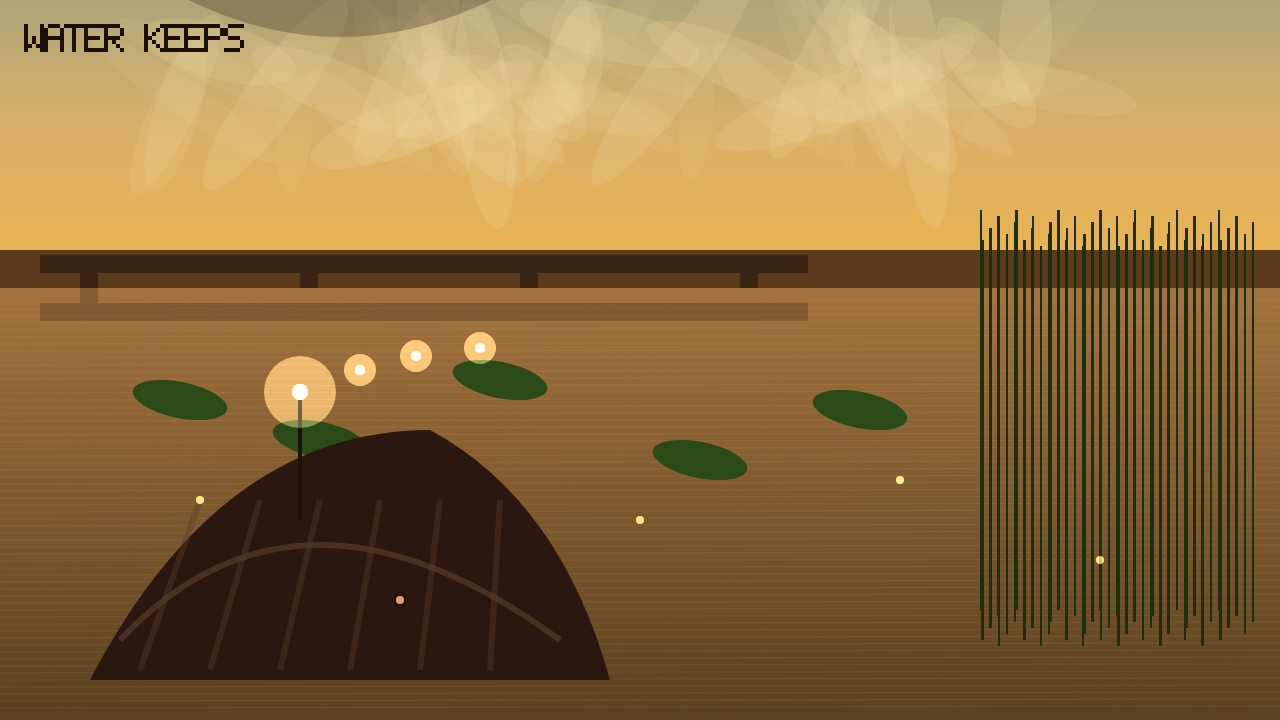
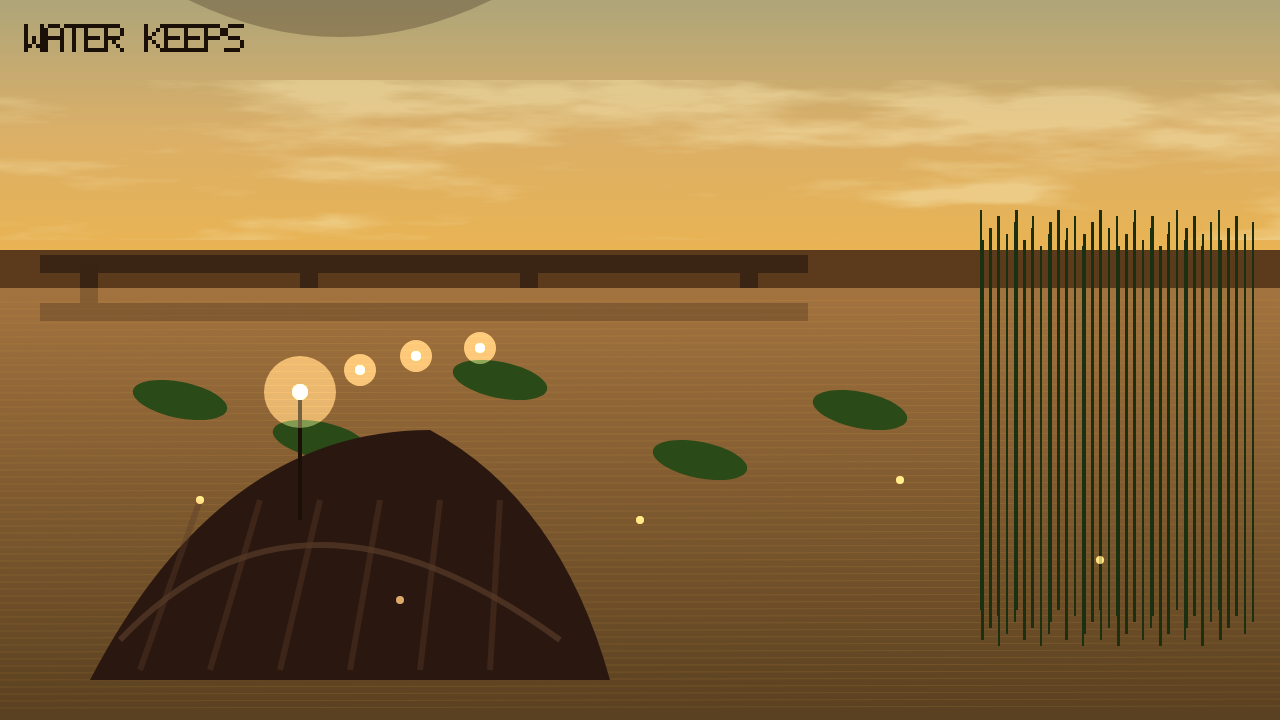
ujs: 概念稿分形云带,标题区留空
末行仍 (89,64,32).

diff --git a/ujs/plans/demo-v2/look-dev/water-keeps-s0.html b/ujs/plans/demo-v2/look-dev/water-keeps-s0.html
@@ -12,16 +12,33 @@ import { FONT, FONT_W, FONT_H } from "../../../practice/uxe/font5x7.js";
 const W=1280,H=720;
 const c=document.getElementById("c");
 const g=c.getContext("2d");
-function noiseCloud(cx,cy,rw,rh){
-  g.save();
-  for(let i=0;i<28;i++){
-    const x=cx+(Math.sin(i*1.7)+Math.cos(i*0.9))*rw*0.5;
-    const y=cy+(Math.cos(i*1.3)+Math.sin(i*0.6))*rh*0.45;
-    g.globalAlpha=0.08+0.05*(i%3);
-    g.fillStyle="#F4E0A8";
-    g.beginPath(); g.ellipse(x,y,rw*(0.25+0.08*(i%4)),rh*(0.35+0.1*(i%3)),i*0.2,0,6.28); g.fill();
+function hash(x,y){ const n=Math.sin(x*127.1+y*311.7)*43758.5453; return n-Math.floor(n); }
+function vnoise(x,y){
+  const x0=Math.floor(x), y0=Math.floor(y);
+  const fx=x-x0, fy=y-y0;
+  const a=hash(x0,y0), b=hash(x0+1,y0), c=hash(x0,y0+1), d=hash(x0+1,y0+1);
+  const ux=fx*fx*(3-2*fx), uy=fy*fy*(3-2*fy);
+  return a+(b-a)*ux+(c-a)*uy+(a-b-c+d)*ux*uy;
+}
+function fbm(x,y){
+  let a=0, amp=0.5, f=1;
+  for(let i=0;i<5;i++){ a+=amp*vnoise(x*f,y*f); f*=2; amp*=0.5; }
+  return a;
+}
+function drawCloudBand(){
+  const img=g.getImageData(0,80,W,160);
+  const d=img.data;
+  for(let y=0;y<160;y++) for(let x=0;x<W;x++){
+    let n=fbm(x*0.006, y*0.035);
+    n=n*n;
+    if(n<0.22) continue;
+    const a=Math.min(0.55,(n-0.22)*2.2);
+    const i=(y*W+x)*4;
+    d[i]=d[i]*(1-a)+244*a;
+    d[i+1]=d[i+1]*(1-a)+224*a;
+    d[i+2]=d[i+2]*(1-a)+168*a;
   }
-  g.restore();
+  g.putImageData(img,0,80);
 }
 function text5(str,x,y,s,col){
   g.fillStyle=col;
@@ -41,8 +58,8 @@ sky.addColorStop(0,"#AEA579");
 sky.addColorStop(0.45,"#DAAF68");
 sky.addColorStop(1,"#EEB54C");
 g.fillStyle=sky; g.fillRect(0,0,W,288);
-noiseCloud(400,90,240,50);
-noiseCloud(820,70,280,48);
+drawCloudBand();
+
 g.fillStyle="#5B3B1C"; g.fillRect(0,250,W,80);
 g.fillStyle="#3A2414"; g.fillRect(40,255,768,18);
 g.fillRect(80,273,18,50); g.fillRect(300,273,18,50); g.fillRect(520,273,18,50); g.fillRect(740,273,18,50);
